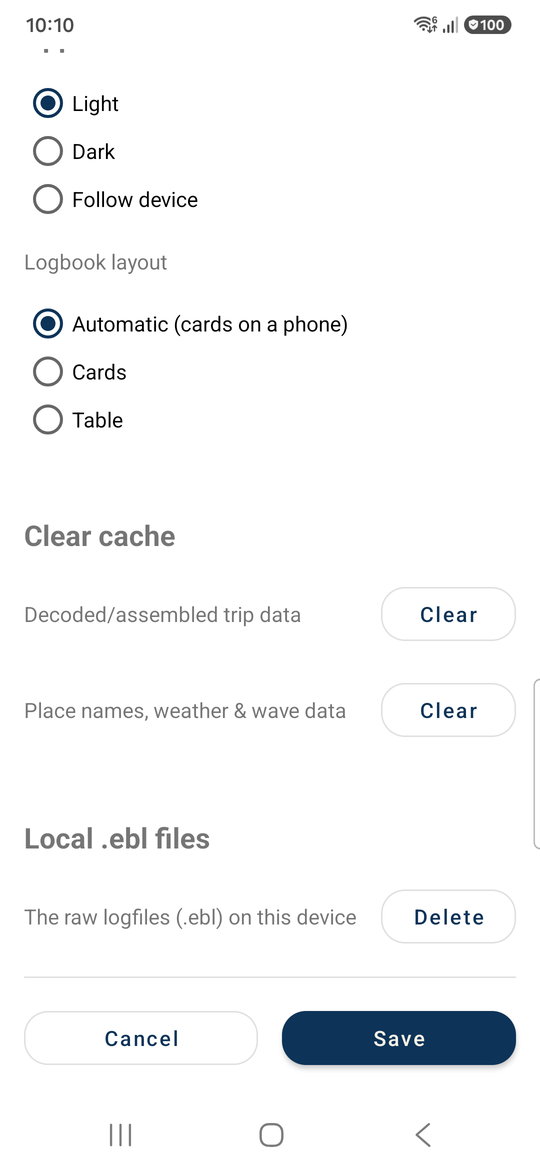
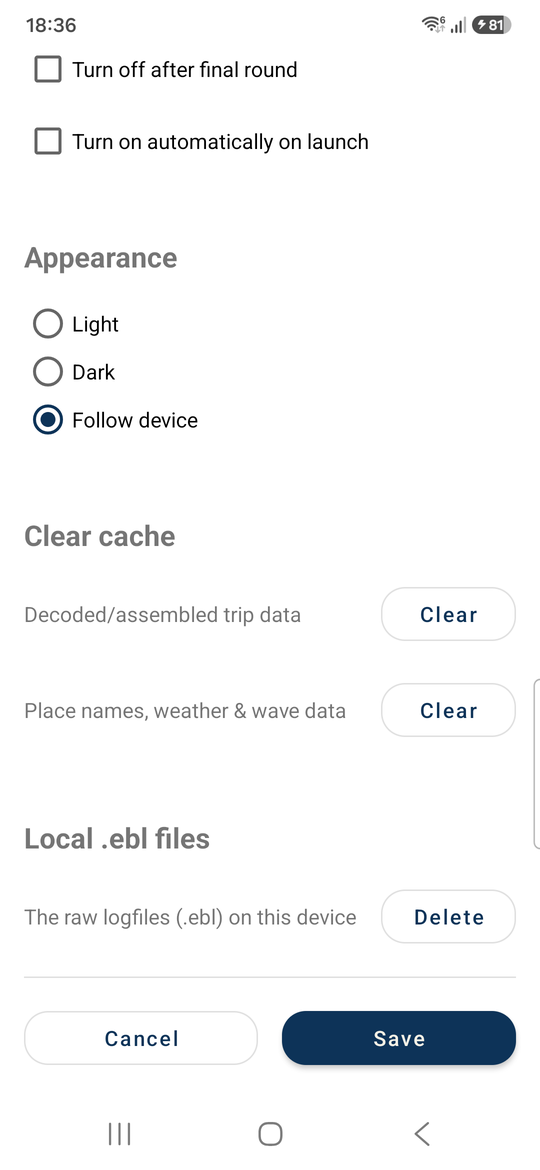
Help: a welcome the first time and Settings > Help and manual; the logbook layout is automatic
HelpActivity shows the shared help page (four languages) in a web view without JavaScript, with this app's own screenshots
(assets/help/img). The welcome is shown once, not to someone who has already filled in the W2K-2 login. The logbook layout choice
is gone from Settings (always automatic); the page follows the Appearance setting. Screenshots of Settings retaken.

diff --git a/app/src/main/java/com/ayuus/mysailinglogbook/HelpActivity.kt b/app/src/main/java/com/ayuus/mysailinglogbook/HelpActivity.kt
@@ -1,0 +1,85 @@
+package com.ayuus.mysailinglogbook
+
+import android.content.Intent
+import android.os.Bundle
+import android.util.Log
+import android.webkit.WebResourceRequest
+import android.webkit.WebView
+import android.webkit.WebViewClient
+import android.widget.FrameLayout
+import androidx.activity.enableEdgeToEdge
+import androidx.appcompat.app.AppCompatActivity
+import androidx.core.view.ViewCompat
+import androidx.core.view.WindowInsetsCompat
+import com.chaquo.python.Python
+import java.io.File
+
+/**
+ * The help: one page shared with the iOS app (nmea2log's assets/help/help.html, English, Dutch, French and German), shown in a web view
+ * without JavaScript. The page is the copy last downloaded from GitHub, or the one that came with the app (see
+ * nmea2log/help_page.py); its screenshots are this app's own, in assets/help/img/. Links to the web open in the browser.
+ */
+class HelpActivity : AppCompatActivity() {
+
+    override fun onCreate(savedInstanceState: Bundle?) {
+        super.onCreate(savedInstanceState)
+        enableEdgeToEdge()
+        title = getString(R.string.help_activity_title)
+
+        val webView = WebView(this).apply {
+            webViewClient = object : WebViewClient() {
+                override fun shouldOverrideUrlLoading(view: WebView, request: WebResourceRequest): Boolean {
+                    // A link inside the page (#connect) stays; one to the web goes to the browser.
+                    if (request.url.scheme != "http" && request.url.scheme != "https") return false
+                    try {
+                        startActivity(Intent(Intent.ACTION_VIEW, request.url))
+                    } catch (e: Exception) {
+                        Log.w("HelpActivity", "no app to open ${request.url}", e)
+                    }
+                    return true
+                }
+            }
+        }
+        // The padding sits on a container, not on the web view: padding on a web view does not keep its content clear of the
+        // system bars once it scrolls.
+        val container = FrameLayout(this).apply { addView(webView) }
+        ViewCompat.setOnApplyWindowInsetsListener(container) { view, insets ->
+            val bars = insets.getInsets(WindowInsetsCompat.Type.systemBars())
+            view.setPadding(bars.left, bars.top, bars.right, bars.bottom)
+            insets
+        }
+        setContentView(container)
+
+        val language = resources.configuration.locales[0].language
+        // Off the main thread: Python may still have to be started.
+        Thread {
+            try {
+                PythonStarter.ensureStarted(this)
+                val html = Python.getInstance().getModule("nmea2log.help_page")
+                    .callAttr("html_for_app", helpCacheDir(this).absolutePath, "android", language).toString()
+                runOnUiThread {
+                    webView.loadDataWithBaseURL("file:///android_asset/help/", html, "text/html", "utf-8", null)
+                }
+            } catch (e: Exception) {
+                Log.w("HelpActivity", "could not load the help", e)
+            }
+        }.start()
+    }
+
+    companion object {
+        /** Where the copy of the help page that was downloaded from GitHub is kept. */
+        fun helpCacheDir(context: android.content.Context): File = File(context.filesDir, "help")
+
+        /** Fetches a newer help page from GitHub when there is one (at most once a day, see help_page.refresh); quiet
+         * when there is no internet. Call from a background thread. */
+        fun refreshFromGitHub(context: android.content.Context) {
+            try {
+                PythonStarter.ensureStarted(context)
+                Python.getInstance().getModule("nmea2log.help_page")
+                    .callAttr("refresh", helpCacheDir(context).absolutePath)
+            } catch (e: Exception) {
+                Log.w("HelpActivity", "could not refresh the help", e)
+            }
+        }
+    }
+}

diff --git a/app/src/main/java/com/ayuus/mysailinglogbook/SettingsActivity.kt b/app/src/main/java/com/ayuus/mysailinglogbook/SettingsActivity.kt
@@ -120,6 +120,17 @@ class SettingsActivity : AppCompatActivity() {
             return box
         }
 
+        // The help (shared with the iOS app, see HelpActivity): there is no room for an icon in the toolbar.
+        layout.addView(
+            MaterialButton(this, null, com.google.android.material.R.attr.materialButtonOutlinedStyle).apply {
+                text = getString(R.string.button_help)
+                isAllCaps = false
+                cornerRadius = (16 * resources.displayMetrics.density).toInt()
+                setOnClickListener { startActivity(android.content.Intent(this@SettingsActivity, HelpActivity::class.java)) }
+            },
+            LinearLayout.LayoutParams(LinearLayout.LayoutParams.MATCH_PARENT, LinearLayout.LayoutParams.WRAP_CONTENT),
+        )
+
         sectionHeader(getString(R.string.section_w2k2_boat))
         val userField = field(getString(R.string.label_w2k2_user), store.w2k2User)
         val passwordField = field(getString(R.string.label_w2k2_password), store.w2k2Password, isPassword = true)
@@ -260,31 +271,6 @@ class SettingsActivity : AppCompatActivity() {
             "light" -> themeLightRadio.isChecked = true
             "system" -> themeSystemRadio.isChecked = true
             else -> themeDarkRadio.isChecked = true
-        }
-
-        // How the logbook page lays out its trips (cards / table); the page's own two buttons are for browsers, here the
-        // choice is made in Settings and handed to the page (MainActivity.applyLogbookPrefs).
-        layout.addView(
-            TextView(this).apply { text = getString(R.string.label_logbook_layout) },
-            LinearLayout.LayoutParams(LinearLayout.LayoutParams.WRAP_CONTENT, LinearLayout.LayoutParams.WRAP_CONTENT)
-                .apply { topMargin = padding },
-        )
-        val viewGroup = RadioGroup(this).apply { orientation = LinearLayout.VERTICAL }
-        val viewAutoRadio = RadioButton(this).apply { text = getString(R.string.radio_layout_auto) }
-        val viewCardsRadio = RadioButton(this).apply { text = getString(R.string.radio_layout_cards) }
-        val viewTableRadio = RadioButton(this).apply { text = getString(R.string.radio_layout_table) }
-        viewGroup.addView(viewAutoRadio)
-        viewGroup.addView(viewCardsRadio)
-        viewGroup.addView(viewTableRadio)
-        layout.addView(
-            viewGroup,
-            LinearLayout.LayoutParams(LinearLayout.LayoutParams.WRAP_CONTENT, LinearLayout.LayoutParams.WRAP_CONTENT)
-                .apply { topMargin = padding },
-        )
-        when (store.logbookView) {
-            "cards" -> viewCardsRadio.isChecked = true
-            "table" -> viewTableRadio.isChecked = true
-            else -> viewAutoRadio.isChecked = true
         }
 
         // Cache-legen: two separate buttons rather than one "clear everything" -- the two caches
@@ -469,11 +455,6 @@ class SettingsActivity : AppCompatActivity() {
                     themeLightRadio.isChecked -> "light"
                     themeSystemRadio.isChecked -> "system"
                     else -> "dark"
-                }
-                store.logbookView = when {
-                    viewCardsRadio.isChecked -> "cards"
-                    viewTableRadio.isChecked -> "table"
-                    else -> "auto"
                 }
                 AppCompatDelegate.setDefaultNightMode(
                     when (store.themeMode) {

diff --git a/app/src/main/java/com/ayuus/mysailinglogbook/MainActivity.kt b/app/src/main/java/com/ayuus/mysailinglogbook/MainActivity.kt
@@ -615,6 +615,22 @@ class MainActivity : AppCompatActivity() {
             .show()
     }
 
+    /** The first time the app is opened: a short welcome that offers the help (also reachable from Settings, at the top). Not
+     * for someone who has already filled in the W2K-2 login -- an update must not greet them as a newcomer. Marked as
+     * dealt with straight away, so it is shown once whatever the answer. */
+    private fun maybeShowHelpWelcome() {
+        val store = SettingsStore(this)
+        if (store.helpSeen) return
+        store.helpSeen = true
+        if (store.w2k2User.isNotBlank()) return
+        AlertDialog.Builder(this)
+            .setTitle(R.string.dialog_help_title)
+            .setMessage(R.string.dialog_help_message)
+            .setPositiveButton(R.string.dialog_help_read) { _, _ -> startActivity(Intent(this, HelpActivity::class.java)) }
+            .setNegativeButton(R.string.dialog_help_later, null)
+            .show()
+    }
+
     /** Filled sailboat while the boat mode runs, outline while it is off. */
     fun updateBootButton() {
         val active = BootModeStateStore(this).isActive
@@ -1599,19 +1615,18 @@ class MainActivity : AppCompatActivity() {
         lastLoadedHtmlMtime = File(htmlPath).lastModified()
     }
 
-    /** Tells the logbook page the theme (Appearance) and layout (cards/table) chosen in Settings; the page's own buttons,
-     * which would store the choice in localStorage, are for browsers -- this WebView does not keep that between runs.
+    /** Tells the logbook page the theme (Appearance) chosen in Settings; the page's own buttons, which would store the choice
+     * in localStorage, are for browsers -- this WebView does not keep that between runs. (The layout is always automatic.)
      * The script comes from nmea2log (app_settings.logbook_prefs_script), shared with the iOS app. */
     private fun applyLogbookPrefs() {
         val theme = settingsStore.themeMode
-        val view = settingsStore.logbookView
         // Off the main thread: Python may still have to be started (on a fresh launch the page loads before anything
         // else has needed it).
         Thread {
             try {
                 PythonStarter.ensureStarted(this)
                 val script = Python.getInstance().getModule("nmea2log.app_settings")
-                    .callAttr("logbook_prefs_script", theme, view).toString()
+                    .callAttr("logbook_prefs_script", theme).toString()
                 runOnUiThread { webView.evaluateJavascript(script, null) }
             } catch (e: Exception) {
                 Log.w("LogbookWebView", "could not hand the logbook page its settings", e)
@@ -2633,6 +2648,9 @@ class MainActivity : AppCompatActivity() {
                 applyLogbookPrefs()
             }
         }
+        maybeShowHelpWelcome()
+        // A newer help page from GitHub, when there is internet (at most once a day, quietly).
+        Thread { HelpActivity.refreshFromGitHub(applicationContext) }.start()
         // Covers being brought back via the launcher icon (or the task switcher) while a sync is
         // still genuinely running but its notification isn't up right now -- e.g. the brief
         // download-to-decode transition gap, or an earlier startForegroundService() refusal while

diff --git a/app/src/main/java/com/ayuus/mysailinglogbook/SettingsStore.kt b/app/src/main/java/com/ayuus/mysailinglogbook/SettingsStore.kt
@@ -123,11 +123,10 @@ class SettingsStore(context: Context) {
         get() = prefs.getString(KEY_THEME_MODE, SharedDefaults.THEME_MODE) ?: SharedDefaults.THEME_MODE
         set(value) = prefs.edit().putString(KEY_THEME_MODE, value).apply()
 
-    // How the logbook page lays out its trips: "auto" (cards on a narrow screen), "cards" or "table". Handed to the page
-    // after it has loaded (MainActivity.applyLogbookPrefs): the WebView does not keep what the page's own buttons store.
-    var logbookView: String
-        get() = prefs.getString(KEY_LOGBOOK_VIEW, SharedDefaults.LOGBOOK_VIEW) ?: SharedDefaults.LOGBOOK_VIEW
-        set(value) = prefs.edit().putString(KEY_LOGBOOK_VIEW, value).apply()
+    // Whether the welcome that offers the help has been dealt with (MainActivity.maybeShowHelpWelcome).
+    var helpSeen: Boolean
+        get() = prefs.getBoolean(KEY_HELP_SEEN, SharedDefaults.HELP_SEEN)
+        set(value) = prefs.edit().putBoolean(KEY_HELP_SEEN, value).apply()
 
     // Boat mode (see BootModeController and nmea2log/bootmode.py, whose BootModeConfig has the same
     // names in snake_case and the same defaults).
@@ -196,7 +195,7 @@ class SettingsStore(context: Context) {
         private const val KEY_REST_UPLOAD_PASSWORD = "rest_upload_password"
         private const val KEY_PUBLISH_ENABLED = "publish_enabled"
         private const val KEY_THEME_MODE = "theme_mode"
-        private const val KEY_LOGBOOK_VIEW = "logbook_view"
+        private const val KEY_HELP_SEEN = "help_seen"
         private const val KEY_BOOT_ROUND_INTERVAL_MINUTES = "boot_round_interval_minutes"
         private const val KEY_BOOT_PUBLISH_EVERY_ROUND = "boot_publish_every_round"
         private const val KEY_BOOT_FINAL_ON_HARBOUR = "boot_final_on_harbour"

diff --git a/app/src/main/java/com/ayuus/mysailinglogbook/SharedConstants.kt b/app/src/main/java/com/ayuus/mysailinglogbook/SharedConstants.kt
@@ -46,5 +46,5 @@ object SharedDefaults {
     const val BOOT_STOP_AFTER_FINAL = false
     const val BOOT_AUTO_START = false
     const val THEME_MODE = "system"
-    const val LOGBOOK_VIEW = "auto"
+    const val HELP_SEEN = false
 }

diff --git a/README.md b/README.md
@@ -44,13 +44,13 @@ trips assembled from them.*
 
 <p>
 <img src="docs/screenshots/settings.png" width="230" alt="Settings: W2K-2, boat, trips, publish">
-<img src="docs/screenshots/settings-more.png" width="230" alt="Settings: appearance and the layout of the logbook, clearing the caches, deleting the local .ebl files">
+<img src="docs/screenshots/settings-more.png" width="230" alt="Settings: appearance, clearing the caches, deleting the local .ebl files">
 </p>
 
 *Settings (top and bottom).*
 
-Under Appearance you choose light, dark or following the device, and the layout of the logbook: a card per trip (what
-"automatic" picks on a phone held upright) or the table (what it picks on a wide screen).
+Under Appearance you choose light, dark or following the device (the default); the logbook follows it. On a phone held
+upright the logbook shows a card per trip, on a wide screen (a tablet in landscape) the table.
 
 <p>
 <img src="docs/screenshots/boat-mode.png" width="230" alt="Boat mode on: the filled sailboat button and its status in the log">
@@ -78,6 +78,10 @@ expected for any app installed outside a store.
 Requires Android 7.0 (API 24) or newer.
 
 ## Using the app
+
+The app has its own **help** (the same text in both apps, in English, Dutch, French and German): a short welcome offers it the first time
+the app starts, and it is under **Settings > Help and manual** (the button at the top). It is kept on the phone, so it works at
+sea, and refreshes itself from GitHub when there is internet.
 
 ### First-time setup
 

diff --git a/docs/developer-notes.md b/docs/developer-notes.md
@@ -142,3 +142,10 @@ range checks) -- notification handling, settings storage, the WordPress client, 
 all need real Android framework classes or real network I/O to exercise meaningfully, and aren't
 covered by anything automated yet. The Python side this app calls into is covered separately by
 nmea2log's own extensive pytest suite.
+
+## The help
+
+The help (Settings > Help and manual, and a welcome the first time) is a page shared with the other app, kept in nmea2log:
+`assets/help/help.html`, shown by `HelpActivity` / `help_screen.py` and refreshed from GitHub by `nmea2log.help_page`. How it
+works, how to change the text, and which screenshots each app brings along:
+[nmea2log/docs/app-help.md](https://github.com/Ayuus/nmea2log/blob/main/docs/app-help.md).
